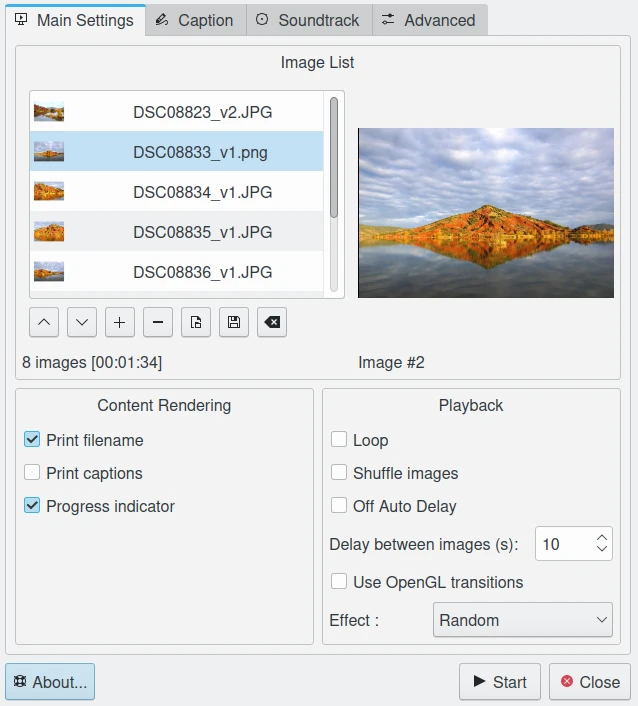
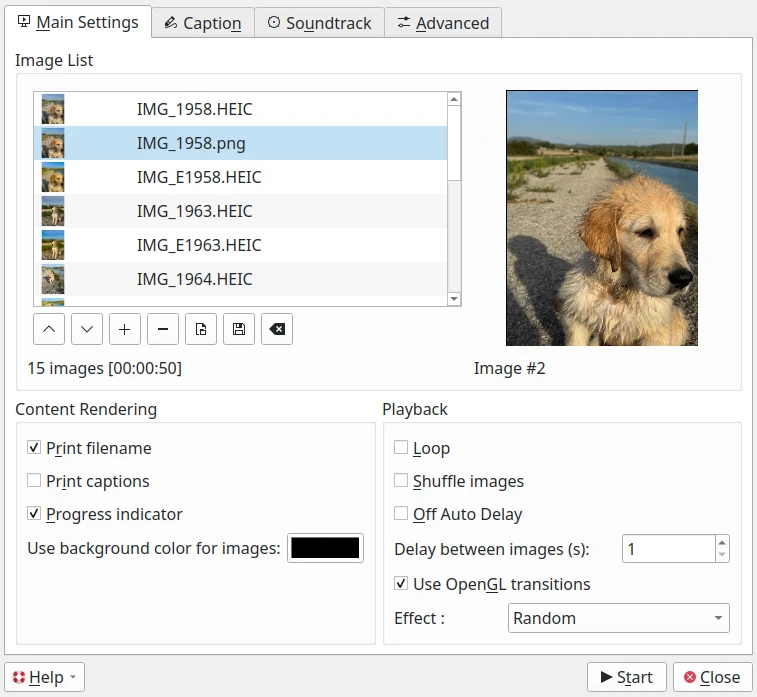
slideshow tools: add color background description

Changed region(s): [[0.0, 0.0, 1.0, 0.9943], [0.5956, 0.1205, 0.6254, 0.1506]]

diff --git a/slideshow_tools/presentation_tool.rst b/slideshow_tools/presentation_tool.rst
@@ -25,7 +25,9 @@ With this tool you can create a perfect slide show with just three mouse clicks.
 
 The **Use OpenGL Transitions** checkbox enables very smooth image transitions using the OpenGL display mode. Be sure you have OpenGL enabled on your graphics card, since otherwise the slideshow will be very slow.
 
-The **Print Filename** checkbox enables displaying the image filename in the lower left corner.
+The **Print filename** checkbox enables displaying the item filename in the lower left corner. The **Print captions** do the description string of the item. **Progress Indicator** display the pending item to slide with the tool.
+
+The **Use background color for images** button allow to customize the color used as background while displaying ìtems. This can be useful for the images using transparency.
 
 The **Loop** checkbox will enable running the whole show in an endless loop (until manually stopped with :kbd:`Esc`).
 
